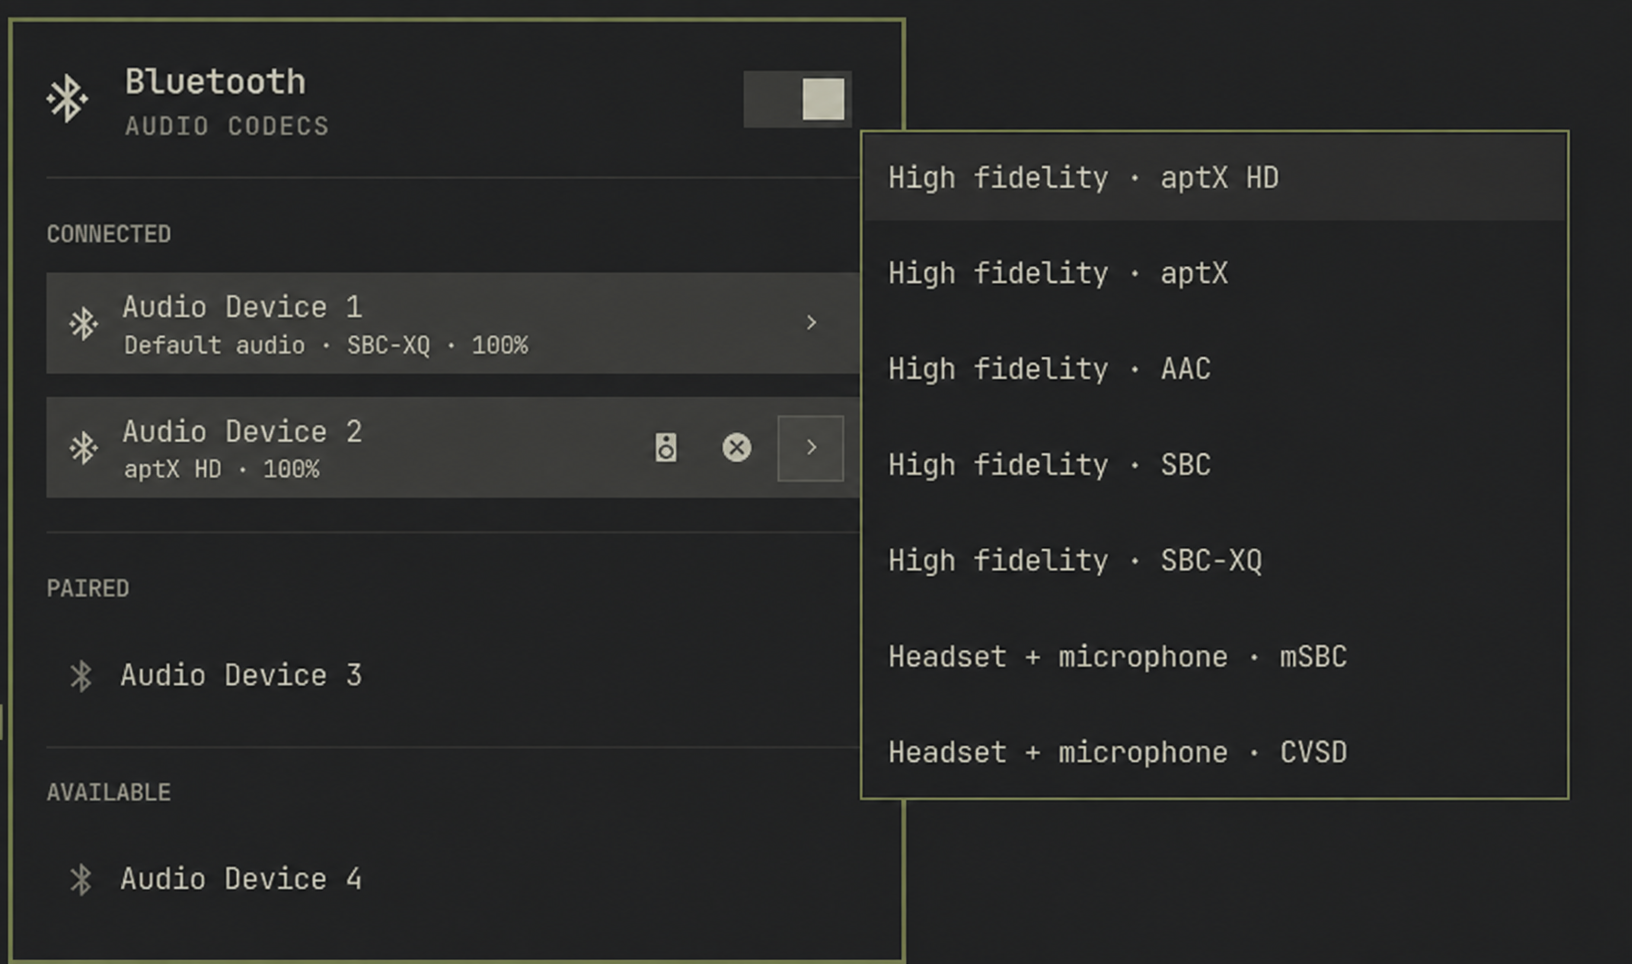
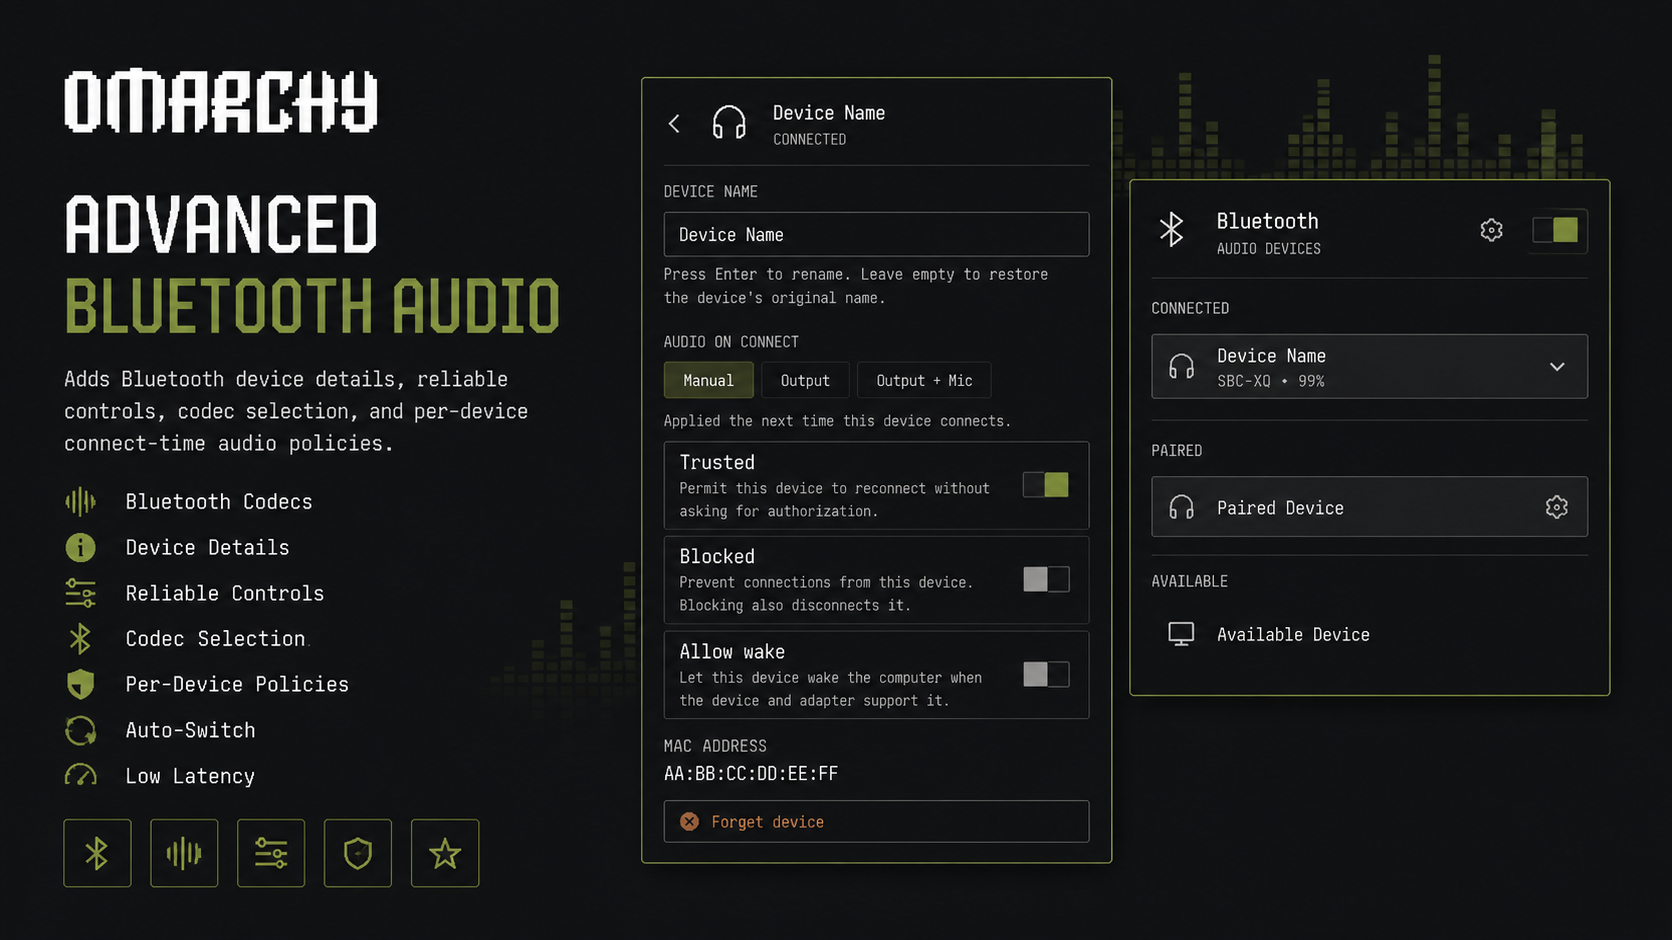
Mirror device renames into audio-control aliases
- With the companion plugin enabled, committing a rename also writes
  its per-node alias store (audio-app-rules set-alias) for the
  device's live PipeWire endpoints, so both panels show the same
  label; clearing the name clears the aliases too.
- Without the companion, renames keep writing only the BlueZ alias.
- Refresh the preview image.

diff --git a/Panel.qml b/Panel.qml
@@ -744,6 +744,32 @@ Panel {
     devicePropertyProc.running = true
   }
 
+  // With the companion plugin enabled, a rename must also land in its
+  // device-alias store so the Advanced Audio window shows the same label.
+  // That store keys by PipeWire node name, so only live endpoints can be
+  // mirrored — the same devices its own rename flow operates on. An empty
+  // alias deletes the entries, matching the restore-original-name behavior
+  // of the BlueZ write above.
+  function syncAudioControlAliases(address, alias) {
+    if (!audioControlInstalled || !address) return
+    var device = deviceByAddress(address)
+    if (!device) return
+
+    var names = []
+    var sink = bluetoothAudioSink(device)
+    if (sink && sink.name) names.push(String(sink.name))
+    var source = bluetoothAudioSource(device)
+    if (source && source.name) names.push(String(source.name))
+
+    for (var i = 0; i < names.length; i++)
+      Quickshell.execDetached([
+        audioControlScript("audio-app-rules"),
+        "set-alias",
+        names[i],
+        String(alias)
+      ])
+  }
+
   function commitDeviceRename() {
     var device = deviceByAddress(deviceDetailsAddress)
     if (!device || deviceDetailsControlsBusy) return
@@ -752,6 +778,7 @@ Panel {
     detailsNameField.text = expected
     detailsNameField.focus = false
     updateDeviceProperty("name", requested, expected, "Could not rename this device.")
+    syncAudioControlAliases(device.address, requested)
     if (opened) Qt.callLater(function() { keyCatcher.forceActiveFocus() })
   }
 

diff --git a/README.md b/README.md
@@ -43,7 +43,8 @@ This is the Bluetooth-panel companion to
 [Advanced Audio Control](https://github.com/ssupt/omarchy-audio-control), which
 provides per-application output routing and the full Devices/Bluetooth settings
 window. When that companion is enabled, a settings button in this panel opens
-its Bluetooth tab directly.
+its Bluetooth tab directly, and renaming a device here also updates the name
+shown in the companion's device list.
 
 Both plugins read and write codec, preferred-device, and connect-policy
 choices through `~/.config/omarchy/audio-preferences.json`. The file is
